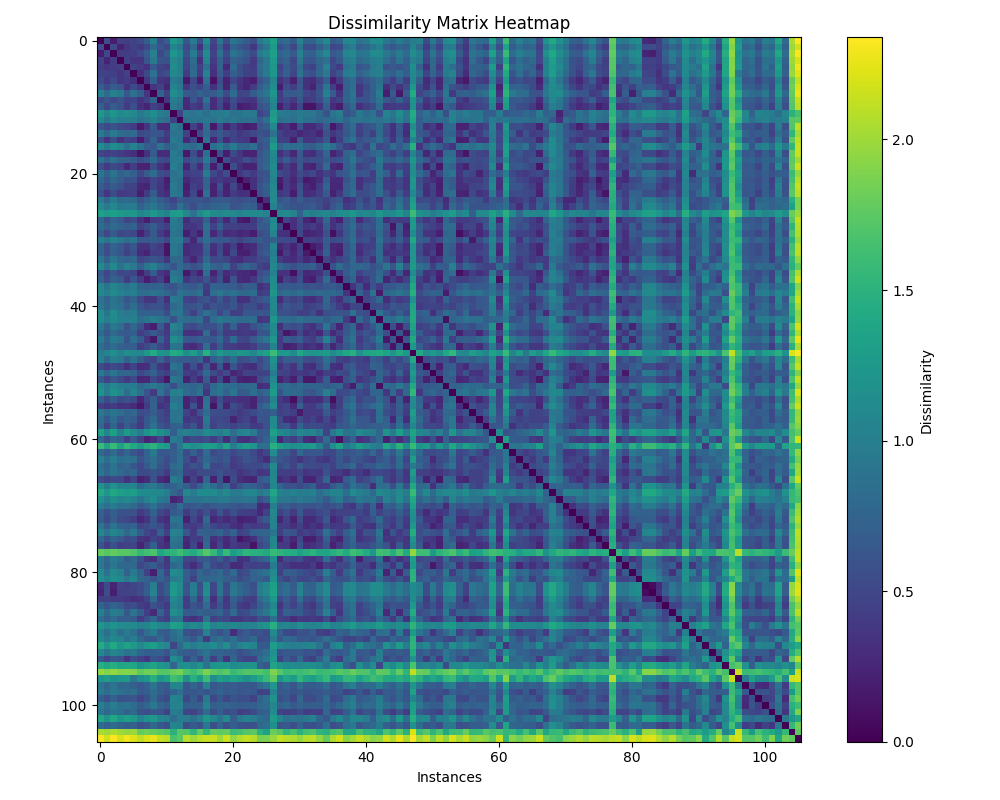
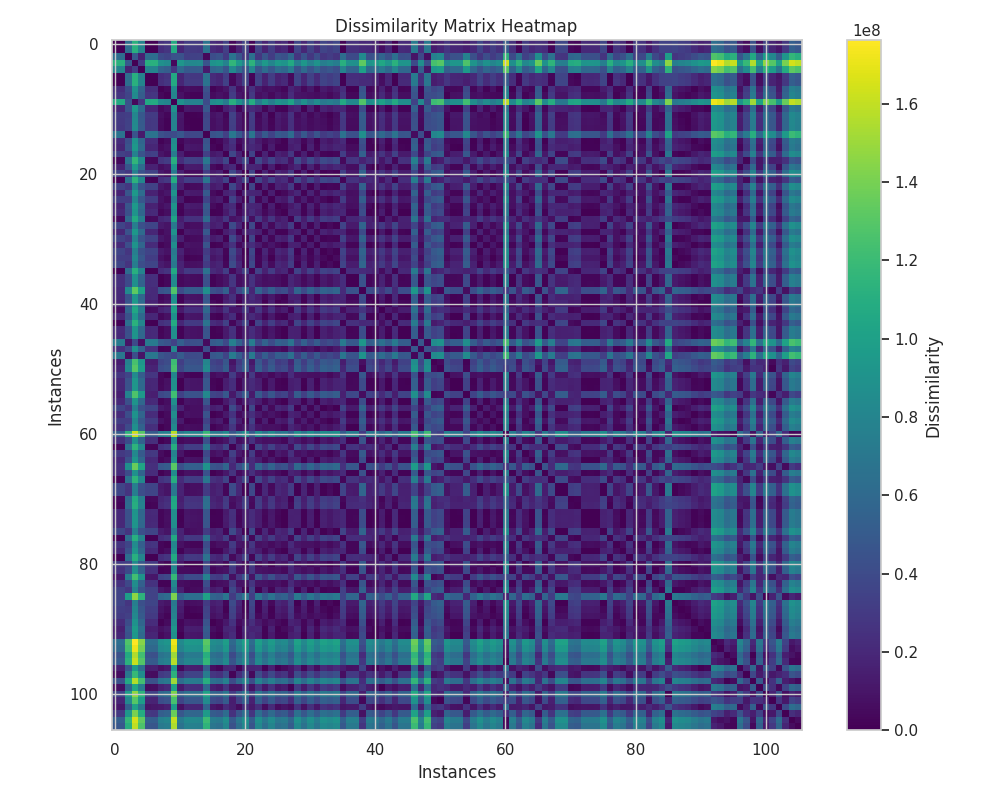
serious progress

diff --git a/boxplots_cleaning.py b/boxplots_cleaning.py
@@ -2,8 +2,9 @@ import pandas as pd
 import matplotlib.pyplot as plt
 import os
 import seaborn as sns
-from sklearn.preprocessing import MinMaxScaler
-
+from sklearn.preprocessing import MinMaxScaler, StandardScaler
+from scipy.spatial.distance import pdist, squareform
+from scipy.cluster import hierarchy
 
 # Load data from CSV into a pandas DataFrame
 df = pd.read_csv("drivers.csv")
@@ -93,7 +94,7 @@ plt.xlabel("Features")
 plt.ylabel("Values")
 
 # Rotate x-axis labels if needed
-plt.xticks(rotation=0)
+plt.xticks(rotation=45)
 
 # Save the plot as an image file in the output directory
 combined_image_filename = os.path.join(
@@ -102,3 +103,105 @@ combined_image_filename = os.path.join(
 plt.tight_layout()
 plt.savefig(combined_image_filename)
 plt.close()  # Close the figure to free up memory
+
+
+# Load data from CSV into a pandas DataFrame
+df = pd.read_csv("drivers.csv")
+
+# Drop the 'DriverID' column if it exists (assuming it's the first column)
+if "VehicleID" in df.columns:
+    df = df.drop(columns=["VehicleID"])
+# Set Seaborn style
+
+# Normalize the data using Min-Max scaling
+scaler = MinMaxScaler()
+df_normalized = pd.DataFrame(scaler.fit_transform(df), columns=df.columns)
+
+# Load data from CSV into a pandas DataFrame
+df = pd.read_csv("drivers.csv")
+
+# Calculate the Euclidean distance matrix
+dist_matrix = pdist(df, metric="euclidean")
+
+# Convert the condensed distance matrix to a square form
+square_dist_matrix = squareform(dist_matrix)
+
+# Create the output directory if it doesn't exist
+output_directory = "output_plots"
+os.makedirs(output_directory, exist_ok=True)
+
+# Create a heatmap of the dissimilarity matrix and save it as an image
+plt.figure(figsize=(10, 8))  # Adjust figure size if needed
+plt.imshow(square_dist_matrix, cmap="viridis", origin="upper")
+plt.colorbar(label="Dissimilarity")
+plt.title("Dissimilarity Matrix Heatmap")
+plt.xlabel("Instances")
+plt.ylabel("Instances")
+plt.tight_layout()
+
+# Save the heatmap as an image file in the output directory
+heatmap_image_filename = os.path.join(output_directory, "dissimilarity_heatmap.png")
+plt.savefig(heatmap_image_filename)
+plt.close()  # Close the figure to free up memory
+
+
+scaler = StandardScaler()
+df_standardized = pd.DataFrame(scaler.fit_transform(df), columns=df.columns)
+df_norm_stand = pd.DataFrame(scaler.fit_transform(df_standardized), columns=df.columns)
+if "VehicleID" in df.columns:
+    df_norm_stand = df_norm_stand.drop(columns=["VehicleID"])
+# Create a combined boxplot for all variables and save it as an image
+plt.figure(figsize=(12, 8))  # Adjust figure size if needed
+sns.boxplot(data=df_norm_stand)
+
+# Set a title and labels
+plt.title("Boxplots for Driver Features")
+plt.xlabel("Features")
+plt.ylabel("Values")
+
+# Rotate x-axis labels if needed
+plt.xticks(rotation=45)
+
+# Save the plot as an image file in the output directory
+combined_image_filename = os.path.join(
+    output_directory, "combined_boxplot_normalised_standardised.png"
+)
+plt.tight_layout()
+plt.savefig(combined_image_filename)
+plt.close()  # Close the figure to free up memory
+
+# Calculate the Euclidean distance matrix
+dist_matrix = pdist(df_norm_stand, metric="euclidean")
+# Convert the condensed distance matrix to a square form
+square_dist_matrix = squareform(dist_matrix)
+
+# Perform hierarchical clustering
+linkage_matrix = hierarchy.linkage(square_dist_matrix, method="average")
+
+# Create the output directory if it doesn't exist
+output_directory = "output_plots"
+os.makedirs(output_directory, exist_ok=True)
+
+# Reorder the dissimilarity matrix based on hierarchical clustering
+order = hierarchy.leaves_list(linkage_matrix)
+reordered_dist_matrix = square_dist_matrix[order, :]
+reordered_dist_matrix = reordered_dist_matrix[:, order]
+
+# Create a heatmap of the reordered dissimilarity matrix and save it as an image
+plt.figure(figsize=(10, 8))  # Adjust figure size if needed
+plt.imshow(reordered_dist_matrix, cmap="viridis", origin="upper")
+plt.colorbar(label="Dissimilarity")
+plt.title("Reordered Dissimilarity Matrix Heatmap")
+plt.xlabel("Instances")
+plt.ylabel("Instances")
+plt.tight_layout()
+
+# Save the heatmap as an image file in the output directory
+heatmap_image_filename = os.path.join(
+    output_directory, "reordered_dissimilarity_heatmap_ns.png"
+)
+plt.savefig(heatmap_image_filename)
+plt.close()  # Close the figure to free up memory
+
+stand_norm_filename = "stand_norm_drivers.csv"
+df_norm_stand.to_csv(stand_norm_filename, index=False)

diff --git a/model.py b/model.py
@@ -1,36 +1,38 @@
+from sklearn.cluster import KMeans
+from pandas.plotting import parallel_coordinates
 import numpy as np
 from sklearn.cluster import KMeans
 import matplotlib.pyplot as plt
 import pandas as pd
+import os
 
-# Load normalized data from CSV into a pandas DataFrame
-df_normalized = pd.read_csv("normalized_drivers.csv")
+# Load standardized data from CSV into a pandas DataFrame
+df_standardized = pd.read_csv("stand_norm_drivers.csv")
 
-# Drop the 'VehicleID' column if it exists (assuming it's the first column)
-if "VehicleID" in df_normalized.columns:
-    df_normalized = df_normalized.drop(columns=["VehicleID"])
+# Perform K-means clustering with k=6
+k = 3
+kmeans = KMeans(n_clusters=k, random_state=42)
+df_standardized["cluster"] = kmeans.fit_predict(df_standardized)
 
-# Create an array of k values to test
-k_values = range(1, 11)  # Test k from 1 to 10
+# Set up the figure and create the parallel coordinate plot
+plt.figure(figsize=(12, 6))
+parallel_coordinates(
+    df_standardized,
+    "cluster",
+    color=("#1f77b4", "#ff7f0e", "#2ca02c", "#d62728", "#9467bd", "#8c564b"),
+)
 
-# Initialize an empty list to store the within-cluster sum of squares (inertia) for each k
-inertia_values = []
-
-# Perform K-means clustering for each value of k
-for k in k_values:
-    kmeans = KMeans(n_clusters=k, random_state=42, n_init=10)
-    kmeans.fit(df_normalized)
-    inertia_values.append(kmeans.inertia_)
-
-# Plot the within-cluster sum of squares (inertia) against different values of k
-plt.plot(k_values, inertia_values, marker="o")
-plt.title("Elbow Method for Optimal k")
-plt.xlabel("Number of Clusters (k)")
-plt.ylabel("Within-Cluster Sum of Squares (Inertia)")
-plt.xticks(k_values)
+# Add legend and adjust layout
+plt.legend(title="Cluster")
+plt.title(f"Parallel Coordinate Plot of Clusters (k={k})")
+plt.xlabel("Features")
+plt.ylabel("Standardized Values")
+plt.xticks(rotation=45)
 plt.tight_layout()
 
-# Save the plot as an image file
-plot_filename = "kmeans_elbow_plot.png"
+output_directory = "output_plots/"
+combined_image_filename = os.path.join(output_directory, f"{k}_parallel_coordinate")
+
+plot_filename = combined_image_filename
 plt.savefig(plot_filename)
-plt.close()  # Close the figure to free up memory
+plt.close()  #

diff --git a/kmeans_diff_vals.py b/kmeans_diff_vals.py
@@ -1,0 +1,36 @@
+import numpy as np
+from sklearn.cluster import KMeans
+import matplotlib.pyplot as plt
+import pandas as pd
+
+# Load normalized data from CSV into a pandas DataFrame
+df_normalized = pd.read_csv("stand_norm_drivers.csv")
+
+# Drop the 'VehicleID' column if it exists (assuming it's the first column)
+if "VehicleID" in df_normalized.columns:
+    df_normalized = df_normalized.drop(columns=["VehicleID"])
+
+# Create an array of k values to test
+k_values = range(1, 11)  # Test k from 1 to 10
+
+# Initialize an empty list to store the within-cluster sum of squares (inertia) for each k
+inertia_values = []
+
+# Perform K-means clustering for each value of k
+for k in k_values:
+    kmeans = KMeans(n_clusters=k, random_state=42, n_init=10)
+    kmeans.fit(df_normalized)
+    inertia_values.append(kmeans.inertia_)
+
+# Plot the within-cluster sum of squares (inertia) against different values of k
+plt.plot(k_values, inertia_values, marker="o")
+plt.title("Elbow Method for Optimal k")
+plt.xlabel("Number of Clusters (k)")
+plt.ylabel("Within-Cluster Sum of Squares (Inertia)")
+plt.xticks(k_values)
+plt.tight_layout()
+
+# Save the plot as an image file
+plot_filename = "kmeans_elbow_plot.png"
+plt.savefig(plot_filename)
+plt.close()  # Close the figure to free up memory
